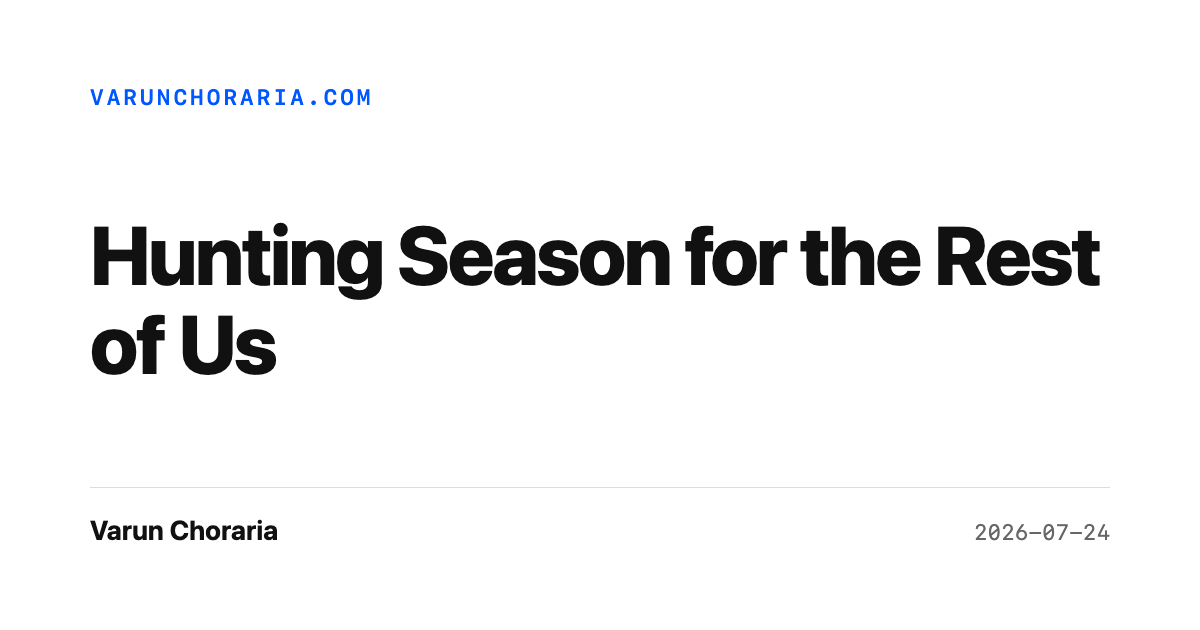
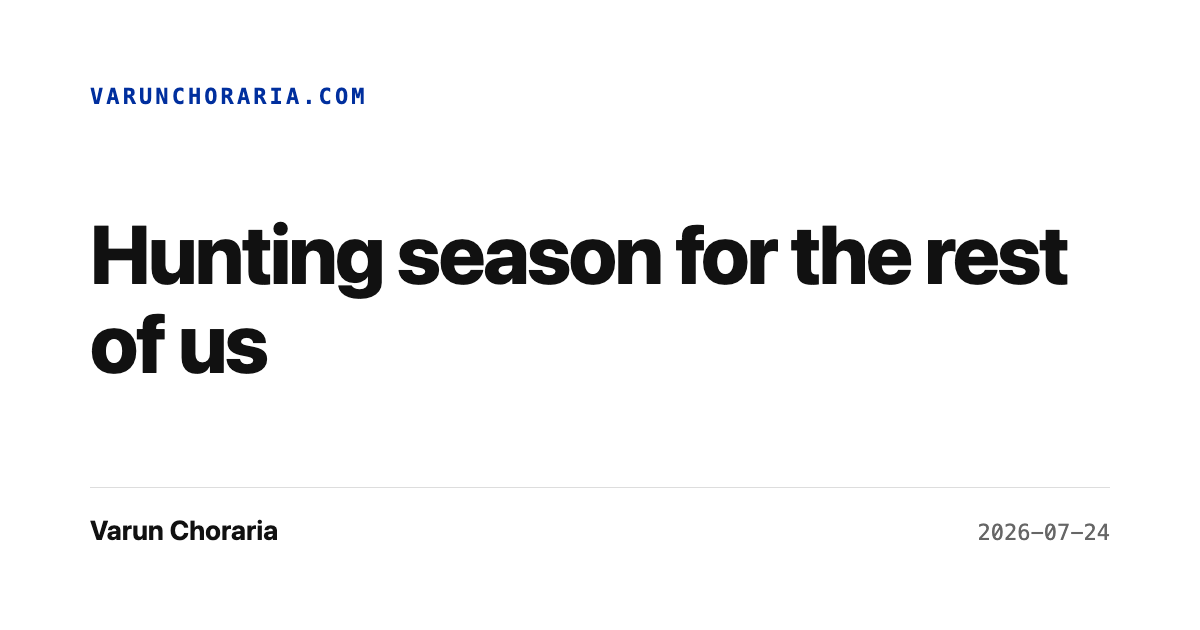
Use sentence case for every essay title
The archive mixed title case and sentence case. Names and acronyms stay capped. URLs stay the same.

Changelog-Title: Essay titles now use sentence case
Changelog-Summary: The archive mixed title case and sentence case, so the list looked uneven. Every essay title is sentence case now. Names and acronyms stay capped, including AI, GitHub, Google, Butler, Alfred, Detroit, Claude, and MCP. Share cards match the new titles. The addresses did not change.
Changelog-Benefit: Scan the list | The archive lines now follow one rule.
Changelog-Benefit: Keep the addresses | URLs stay put. Only the visible title casing changed.

diff --git a/side-quests/interview-recon/index.md b/side-quests/interview-recon/index.md
@@ -39,7 +39,7 @@ Open Claude Code and say, "prep me for my interview at [company]." For another A
 
 Interview Recon is a free AI interview research skill for candidates using Claude Code, Codex, Cursor, or another Agent Skills-compatible agent. It turns a job description and public company sources into a reusable dossier: JD-mapped talking points, a grounded 90-day plan, credible questions, and citations you can verify before the call.
 
-Most candidates skim a company website the night before. Real research takes days, so everyone arrives repeating the same surface-level facts. Interview Recon compresses that work into an afternoon while keeping the evidence attached. I built it during my own 2026 job hunt, when I was running several interview processes at once, losing the source behind useful facts, and repeating research before every round. The full build story, with screenshots, is in [Hunting Season for the Rest of Us](/hunting-season-for-the-rest-of-us/).
+Most candidates skim a company website the night before. Real research takes days, so everyone arrives repeating the same surface-level facts. Interview Recon compresses that work into an afternoon while keeping the evidence attached. I built it during my own 2026 job hunt, when I was running several interview processes at once, losing the source behind useful facts, and repeating research before every round. The full build story, with screenshots, is in [Hunting season for the rest of us](/hunting-season-for-the-rest-of-us/).
 
 ## What will I walk into the interview with?
 

diff --git a/_posts/2026-10-16-butler-ai.md b/_posts/2026-10-16-butler-ai.md
@@ -1,6 +1,6 @@
 ---
-title: "Butler AI: Alfred's Real Job Was Knowing What to Ignore"
-seo_title: "Butler AI: How My Personal Agent Team Decides, Remembers and Learns"
+title: "Butler AI: Alfred's real job was knowing what to ignore"
+seo_title: "Butler AI: how my personal agent team decides, remembers and learns"
 permalink: /butler-ai/
 date: 2026-10-16 00:00:00 +0530
 description: "I run a small team of AI agents on a shared Notion brain and Cloudflare's Clef. The hard part isn't what they can do, it's what they ignore, when they stay quiet, and how my feedback turns into their rules."

diff --git a/_posts/2026-10-25-the-detroit-mistake.md b/_posts/2026-10-25-the-detroit-mistake.md
@@ -1,6 +1,6 @@
 ---
-title: "The Detroit Mistake"
-seo_title: "The Detroit Mistake: faster is not the return"
+title: "The Detroit mistake"
+seo_title: "The Detroit mistake: faster is not the return"
 date: 2026-10-25 00:00:00 +0530
 description: "GM's market fell nearly 10% in 10 years after the automation push. I made the same mistake with AI spend, then started measuring cost per task."
 last_modified_at: 2026-10-25 00:00:00 +0530

diff --git a/_posts/2026-08-01-who-do-we-sell-to-vs-who-should-we-sell-to-and-how.md b/_posts/2026-08-01-who-do-we-sell-to-vs-who-should-we-sell-to-and-how.md
@@ -1,5 +1,5 @@
 ---
-title: "Who do we sell to vs. Who SHOULD we sell to (and how)."
+title: "Who do we sell to vs. who SHOULD we sell to (and how)."
 seo_title: "How to continuously sharpen your ideal customer profile"
 date: 2026-08-01 00:00:00 +0530
 description: "A field guide to sharpening your ICP: win-loss evidence that produces criteria instead of blame, intent signals, and what to do with no customers yet."

diff --git a/_posts/2025-01-30-problems-tell-you-what-to-fix-pain-points-tell-you-why-it-matters.md b/_posts/2025-01-30-problems-tell-you-what-to-fix-pain-points-tell-you-why-it-matters.md
@@ -1,6 +1,6 @@
 ---
 title: "Problems tell you what to fix. Pain points tell you why it matters."
-seo_title: "Problems vs. pain points: Why the difference matters"
+seo_title: "Problems vs. pain points: why the difference matters"
 date: 2025-01-30 00:00:00 +0530
 description: Problems are situational. Pain is what makes those problems emotionally and commercially urgent for the person living them.
 tags:

diff --git a/_posts/2026-07-08-how-to-design-without-ai-slop.md b/_posts/2026-07-08-how-to-design-without-ai-slop.md
@@ -1,5 +1,5 @@
 ---
-title: "How to design without AI Slop"
+title: "How to design without AI slop"
 seo_title: How to design without generic AI slop | Varun Choraria
 date: 2026-07-08 00:00:00 +0530
 description: "Killing generic AI-slop design isn't a prompt problem. Curate taste like a swipe file, then encode it as guardrails a pre-push gate actually enforces."

diff --git a/_posts/2026-06-16-killed-by-google.md b/_posts/2026-06-16-killed-by-google.md
@@ -1,5 +1,5 @@
 ---
-title: Killed By Google
+title: Killed by Google
 seo_title: "Killed by Google: cost of experiments | Varun Choraria"
 date: 2026-06-16 00:00:00 +0530
 description: "Killed by Google, Stripe's #crazyideas, and whether companies and people can afford to run a portfolio of experiments while chasing ARR."

diff --git a/_posts/2026-07-16-github-is-where-ideas-become-accountable.md b/_posts/2026-07-16-github-is-where-ideas-become-accountable.md
@@ -1,5 +1,5 @@
 ---
-title: "Github-ing"
+title: "GitHub-ing"
 seo_title: Why GitHub matters beyond engineering | Varun Choraria
 date: 2026-07-16 00:00:00 +0530
 permalink: /github-ing/

diff --git a/_posts/2026-07-24-hunting-season-for-the-rest-of-us.md b/_posts/2026-07-24-hunting-season-for-the-rest-of-us.md
@@ -1,5 +1,5 @@
 ---
-title: "Hunting Season for the Rest of Us"
+title: "Hunting season for the rest of us"
 date: 2026-07-24 00:00:00 +0530
 redirect_from:
   - /hunting-season-2026/
